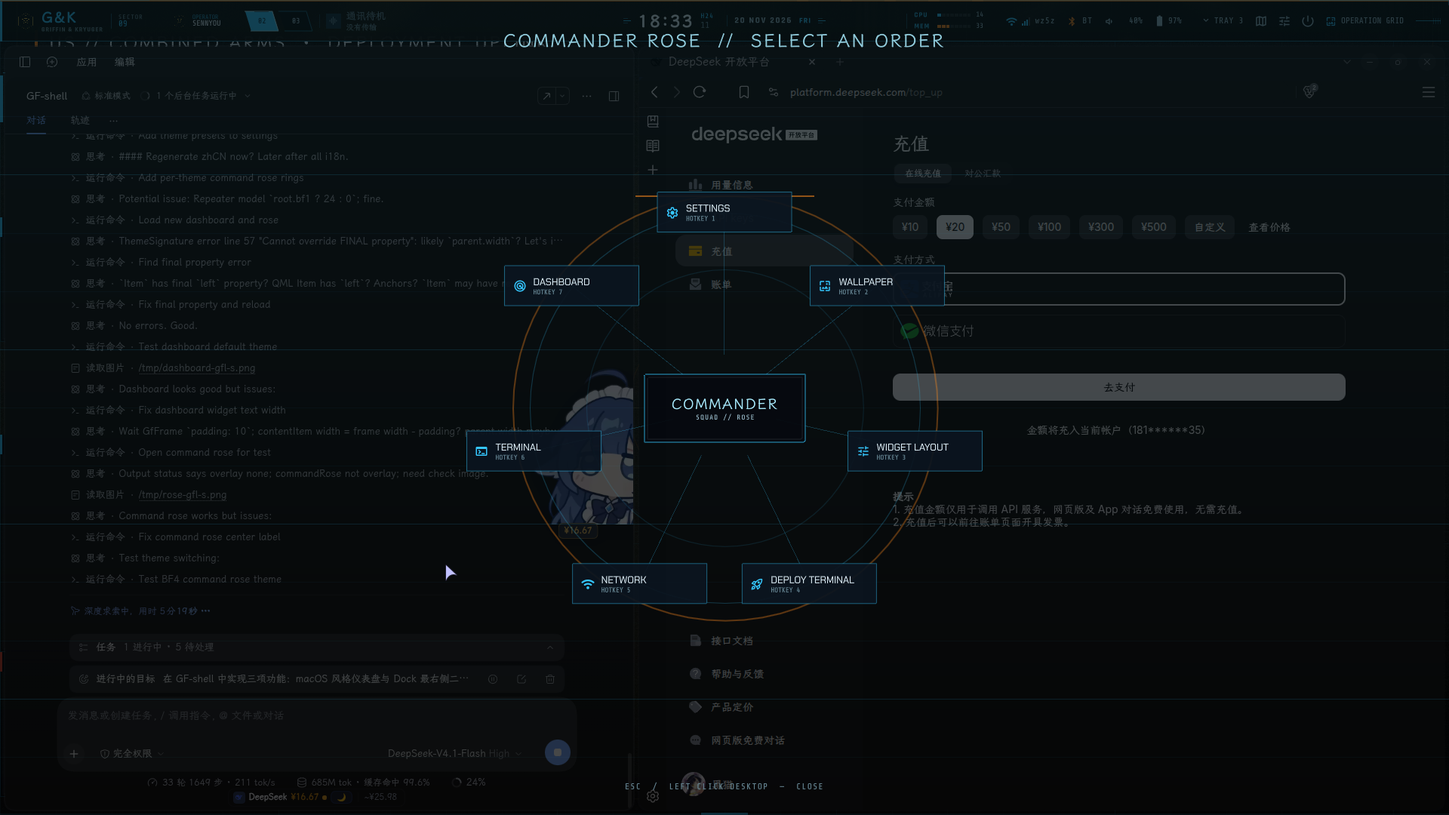
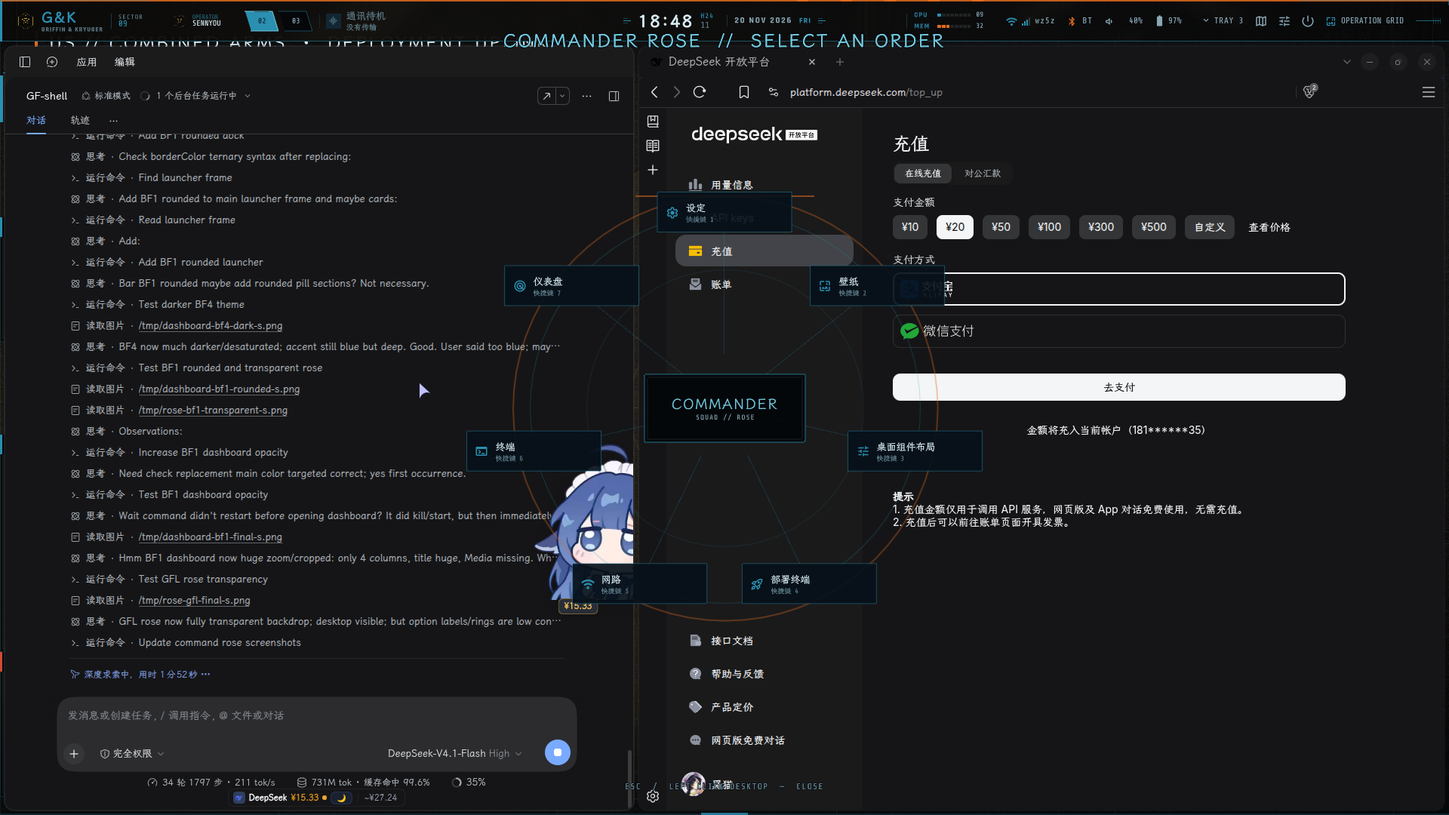
Deepen BF4 palette, round BF1 surfaces and remove rose dimming

diff --git a/modules/command/CommandRose.qml b/modules/command/CommandRose.qml
@@ -84,94 +84,6 @@ PanelWindow {
         onClicked: ShellState.closeCommandRose()
     }
 
-    // 背景：每个主题不一样
-    Item {
-        anchors.fill: parent
-        visible: root.arknights
-        Rectangle {
-            anchors.fill: parent
-            gradient: Gradient {
-                GradientStop { position: 0.0; color: Theme.alpha("#000000", 0.55) }
-                GradientStop { position: 1.0; color: Theme.alpha(Theme.bg0, 0.82) }
-            }
-        }
-        Repeater {
-            model: 18
-            Rectangle {
-                required property int index
-                x: root.width * index / 18
-                y: 0; width: 1; height: root.height
-                color: Theme.alpha(Theme.text, 0.045)
-            }
-        }
-        Repeater {
-            model: 10
-            Rectangle {
-                required property int index
-                x: 0; y: root.height * index / 10
-                width: root.width; height: 1
-                color: Theme.alpha(Theme.text, 0.035)
-            }
-        }
-    }
-
-    Item {
-        anchors.fill: parent
-        visible: root.bf4
-        Rectangle {
-            anchors.fill: parent
-            color: Theme.alpha("#02080d", 0.72)
-        }
-        Repeater {
-            model: 14
-            Rectangle {
-                required property int index
-                x: 0; y: root.height * index / 14
-                width: root.width; height: 1
-                color: Theme.alpha(Theme.accent, index % 3 === 0 ? 0.13 : 0.035)
-            }
-        }
-        Rectangle {
-            anchors.fill: parent
-            gradient: Gradient {
-                GradientStop { position: 0.0; color: Theme.alpha(Theme.accent, 0.06) }
-                GradientStop { position: 1.0; color: "transparent" }
-            }
-        }
-    }
-
-    Item {
-        anchors.fill: parent
-        visible: root.bf1
-        Rectangle {
-            anchors.fill: parent
-            gradient: Gradient {
-                GradientStop { position: 0.0; color: Theme.alpha("#2a2115", 0.55) }
-                GradientStop { position: 0.6; color: Theme.alpha("#120d08", 0.75) }
-                GradientStop { position: 1.0; color: Theme.alpha("#1b130b", 0.9) }
-            }
-        }
-        Repeater {
-            model: 7
-            Rectangle {
-                required property int index
-                x: root.width * (0.1 + index * 0.13)
-                y: root.height * (0.22 + (index % 3) * 0.2)
-                width: root.width * (0.1 + (index % 2) * 0.06)
-                height: width
-                radius: width / 2
-                color: Theme.alpha("#d8c39a", 0.022)
-            }
-        }
-    }
-
-    // 通用暗底（GFL）
-    Rectangle {
-        anchors.fill: parent
-        visible: !root.arknights && !root.bf4 && !root.bf1
-        color: Theme.alpha(Theme.bg0, 0.76)
-    }
-
     // 环 / 辐条 / 中心
     Item {
         x: root.cx; y: root.cy
@@ -280,11 +192,20 @@ PanelWindow {
             anchors.centerIn: parent
             width: Theme.px(194)
             height: Theme.px(82)
-            fill: Theme.alpha(Theme.bg0, 0.92)
-            borderColor: Theme.alpha(Theme.accent, 0.8)
-            chamfer: root.arknights || root.bf4 ? Theme.px(2) : Theme.px(6)
-            innerLine: true
+            fill: root.bf1 ? "transparent" : Theme.alpha(Theme.bg0, 0.92)
+            borderColor: root.bf1 ? "transparent" : Theme.alpha(Theme.accent, 0.8)
+            chamfer: root.bf1 ? 0 : (root.arknights || root.bf4 ? Theme.px(2) : Theme.px(6))
+            innerLine: !root.bf1
             padding: 0
+
+            Rectangle {
+                visible: root.bf1
+                anchors.fill: parent
+                radius: Theme.px(12)
+                color: Theme.alpha(Theme.bg0, 0.95)
+                border.width: 1
+                border.color: Theme.alpha(Theme.accent, 0.7)
+            }
 
             Column {
                 anchors.centerIn: parent
@@ -330,11 +251,22 @@ PanelWindow {
 
             GfFrame {
                 anchors.fill: parent
-                fill: optionMouse.containsMouse ? Theme.alpha(Theme.accent, 0.2) : Theme.alpha(Theme.bg1, 0.92)
-                borderColor: optionMouse.containsMouse ? Theme.accentHi : Theme.alpha(Theme.accent, 0.45)
-                chamfer: root.arknights || root.bf4 ? Theme.px(1) : Theme.px(4)
+                fill: root.bf1 ? "transparent"
+                    : (optionMouse.containsMouse ? Theme.alpha(Theme.accent, 0.2) : Theme.alpha(Theme.bg1, 0.92))
+                borderColor: root.bf1 ? "transparent"
+                    : (optionMouse.containsMouse ? Theme.accentHi : Theme.alpha(Theme.accent, 0.45))
+                chamfer: root.bf1 ? 0 : (root.arknights || root.bf4 ? Theme.px(1) : Theme.px(4))
                 innerLine: false
                 padding: 0
+            }
+
+            Rectangle {
+                visible: root.bf1
+                anchors.fill: parent
+                radius: Theme.px(8)
+                color: optionMouse.containsMouse ? Theme.alpha(Theme.accent, 0.2) : Theme.alpha(Theme.bg1, 0.94)
+                border.width: 1
+                border.color: optionMouse.containsMouse ? Theme.accentHi : Theme.alpha(Theme.accent, 0.5)
             }
 
             Row {
@@ -392,7 +324,9 @@ PanelWindow {
         font.family: Theme.fontDisplay
         font.pixelSize: Theme.fs(18)
         font.letterSpacing: 2.4
-        color: Theme.alpha(Theme.accentHi, 0.85)
+        color: Theme.alpha(Theme.accentHi, 0.95)
+        style: Text.Outline
+        styleColor: Theme.alpha(Theme.bg0, 0.9)
     }
 
     Text {
@@ -404,5 +338,7 @@ PanelWindow {
         font.pixelSize: Theme.fs(8)
         font.letterSpacing: 1.4
         color: Theme.textFaint
+        style: Text.Outline
+        styleColor: Theme.alpha(Theme.bg0, 0.85)
     }
 }

diff --git a/modules/dashboard/Dashboard.qml b/modules/dashboard/Dashboard.qml
@@ -78,15 +78,27 @@ PanelWindow {
             anchors.fill: parent
             anchors.margins: Theme.px(28)
             z: 2
-            fill: Theme.alpha(Theme.bg0, 0.88)
-            borderColor: root.arknights ? Theme.alpha(Theme.text, 0.7)
-                : (root.bf4 ? Theme.alpha(Theme.accent2, 0.75)
-                : (root.bf1 ? Theme.alpha(Theme.accent, 0.75) : Theme.alpha(Theme.accent, 0.55)))
-            chamfer: root.arknights || root.bf4 ? Theme.px(2) : Theme.px(6)
-            innerLine: true
+            fill: root.bf1 ? "transparent" : Theme.alpha(Theme.bg0, 0.88)
+            borderColor: root.bf1 ? "transparent"
+                : (root.arknights ? Theme.alpha(Theme.text, 0.7)
+                : (root.bf4 ? Theme.alpha(Theme.accent2, 0.75) : Theme.alpha(Theme.accent, 0.55)))
+            chamfer: root.bf1 ? 0 : (root.arknights || root.bf4 ? Theme.px(2) : Theme.px(6))
+            innerLine: !root.bf1
             padding: 0
 
+            // BF1：旧纸圆角面板
+            Rectangle {
+                visible: root.bf1
+                anchors.fill: parent
+                anchors.margins: Theme.px(1)
+                radius: Theme.px(16)
+                color: Theme.alpha(Theme.bg0, 0.97)
+                border.width: 2
+                border.color: Theme.alpha(Theme.accent, 0.5)
+            }
+
             GlassBackdrop {
+                visible: !root.bf1
                 anchors.fill: parent
                 anchors.margins: 2
                 source: Wallpapers.source
@@ -95,9 +107,10 @@ PanelWindow {
                 strength: 0.35
             }
             Rectangle {
+                visible: !root.bf1
                 anchors.fill: parent
                 anchors.margins: 2
-                color: Theme.alpha(Theme.bg0, root.bf1 ? 0.72 : 0.6)
+                color: Theme.alpha(Theme.bg0, 0.6)
             }
 
             Column {
@@ -194,11 +207,20 @@ PanelWindow {
                             required property var modelData
                             width: (parent.width - Theme.px(24)) / 4
                             height: parent.height
-                            fill: Theme.alpha(Theme.panel, 0.55)
-                            borderColor: Theme.alpha(Theme.accent, 0.28)
-                            chamfer: root.arknights || root.bf4 ? 2 : Theme.px(4)
+                            fill: root.bf1 ? "transparent" : Theme.alpha(Theme.panel, 0.55)
+                            borderColor: root.bf1 ? "transparent" : Theme.alpha(Theme.accent, 0.28)
+                            chamfer: root.bf1 ? 0 : (root.arknights || root.bf4 ? 2 : Theme.px(4))
                             innerLine: false
                             padding: Theme.px(10)
+
+                            Rectangle {
+                                visible: root.bf1
+                                anchors.fill: parent
+                                radius: Theme.px(10)
+                                color: Theme.alpha(Theme.panel, 0.94)
+                                border.width: 1
+                                border.color: Theme.alpha(Theme.accent, 0.32)
+                            }
 
                             Column {
                                 width: parent.width
@@ -302,7 +324,9 @@ PanelWindow {
 
                                 Rectangle {
                                     anchors.fill: parent
-                                    color: cellMouse.containsMouse ? Theme.alpha(Theme.accent, 0.16) : Theme.alpha(Theme.panel, 0.35)
+                                    radius: root.bf1 ? Theme.px(9) : 0
+                                    color: cellMouse.containsMouse ? Theme.alpha(Theme.accent, 0.16)
+                                        : Theme.alpha(Theme.panel, root.bf1 ? 0.9 : 0.35)
                                     border.width: 1
                                     border.color: cellMouse.containsMouse ? Theme.accent : Theme.alpha(Theme.accent, 0.18)
                                 }

diff --git a/modules/dock/Dock.qml b/modules/dock/Dock.qml
@@ -434,9 +434,9 @@ PanelWindow {
         fill: Theme.alpha(Theme.bg0, 0.0)
         borderColor: Theme.arknights ? Theme.alpha(Theme.text, 0.72)
             : (Theme.bf4 ? Theme.alpha(Theme.accent2, 0.8)
-            : (Theme.bf1 ? Theme.alpha(Theme.accent, 0.72)
+            : (Theme.bf1 ? "transparent"
             : Theme.alpha(Theme.accent, 0.55)))
-        chamfer: Theme.arknights || Theme.bf4 ? Theme.px(2) : (Theme.bf1 ? Theme.px(4) : Theme.px(8))
+        chamfer: Theme.arknights || Theme.bf4 ? Theme.px(2) : (Theme.bf1 ? 0 : Theme.px(8))
         innerLine: true
         padding: 0
         cutBottomLeft: true
@@ -482,6 +482,16 @@ PanelWindow {
             anchors.fill: parent
             anchors.margins: 2
             color: Theme.alpha(Theme.bg0, Settings.get("dock.opacity", 0.94))
+        }
+
+        Rectangle {
+            visible: Theme.bf1
+            anchors.fill: parent
+            anchors.margins: Theme.px(1)
+            radius: Theme.px(12)
+            color: "transparent"
+            border.width: 2
+            border.color: Theme.alpha(Theme.accent, 0.6)
         }
 
         Rectangle {

diff --git a/services/Settings.qml b/services/Settings.qml
@@ -224,13 +224,13 @@ QtObject {
         },
         bf4: {
             name: "BATTLEFIELD 4",
-            accent: "#35c7ff", accentHi: "#a9ecff", accentDim: "#1c637e",
-            accent2: "#ff8a1e",
-            bg0: "#05090e", bg1: "#0b151f", bg: "#071019",
-            panel: "#0b1824", panelAlt: "#102332", panelHi: "#183548",
-            line: "#21445b", lineBright: "#3b7e9f",
-            text: "#e7f7ff", textDim: "#9bbdcc", textFaint: "#688896", textGhost: "#3c5662",
-            ink: "#031018",
+            accent: "#2a8fb0", accentHi: "#73c9df", accentDim: "#145064",
+            accent2: "#e06b1f",
+            bg0: "#020509", bg1: "#071019", bg: "#04090e",
+            panel: "#07131c", panelAlt: "#0b1e2b", panelHi: "#122c3d",
+            line: "#173446", lineBright: "#2b6178",
+            text: "#d9edf5", textDim: "#89a8b5", textFaint: "#5f7f8c", textGhost: "#354d58",
+            ink: "#020c12",
             scanlines: true, brackets: false
         },
         bf1: {

diff --git a/shell.qml b/shell.qml
@@ -209,6 +209,8 @@ ShellRoot {
 
 
 
+
+
         function widgets(): void {
             ShellState.toggleWidgetsEditing();
         }

diff --git a/README.en.md b/README.en.md
@@ -62,7 +62,7 @@ Documentation: [Install](docs/INSTALL.en.md) · [Configuration](docs/CONFIG.en.m
 | **Dashboard** | A macOS-Launchpad-style full-screen overview: a themed title, four status cards (system / power / link / media), unit search, an app grid, and SETTINGS / CONTROL / MAP / LAUNCHER shortcuts. GFL, Arknights, BF4 and BF1 each get a different title, background and card outline. |
 | **Tactical control (Control Center)** | Link status (Wi-Fi/Bluetooth), segmented volume/brightness sliders, module switches, CPU/MEM/BAT segmented gauges, notification history and media controls. |
 | **Operation map (Overview)** | One "sector" card per workspace listing its units; click a sector to switch workspaces, click a unit to focus its window; drag a unit onto another sector, or right-click a unit and click the target sector, to move that window. |
-| **Command rose** | A **desktop right-click** opens a Battlefield-style Q command rose at the pointer: Settings, Wallpaper, Widget Layout, Deploy Terminal, Network, Terminal and Dashboard. Click an option or press 1–7; left-click the desktop / Esc closes. GFL, Arknights, BF4 and BF1 each have their own centre badge, rings and backdrop. |
+| **Command rose** | A **desktop right-click** opens a Battlefield-style Q command rose at the pointer: Settings, Wallpaper, Widget Layout, Deploy Terminal, Network, Terminal and Dashboard. Click an option or press 1–7; left-click the desktop / Esc closes. GFL, Arknights, BF4 and BF1 each have their own centre badge and rings; there is **no full-screen dim layer**, so the desktop keeps its brightness and visibility. |
 | **System halt (Power)** | Lock / suspend / restart / shut down / log out. Dangerous actions need a second confirmation (ENTER twice); ESC cancels. |
 | **HUD widgets** | Large clock, system vitals, transmission (with lyrics), weather, cava audio spectrum, operator card and current mission; each can be toggled. A **desktop layout editor** overlays a snap grid; drag widgets, resize from the bottom-right corner, and toggle each one ON/OFF. |
 | **Echelon (Dock)** | Pinned and running units (up to 12), with running apps appended automatically; pin more by typing an app name in Settings → Dock. Right-click a unit to pin/unpin it, open a new window or close it. `dock.position` supports top / bottom / left / right; left/right render a **vertical side dock**, while `dock.align` handles vertical top/centre/bottom or horizontal left/centre/right. It hides while windows are open and expands when the pointer reaches the bottom hot zone, pushing windows away via an exclusive zone. Icon size / opacity / grayscale / blur are adjustable, and the hidden **trigger area is configurable (4–48 px)**. With **Avoid windows** off the dock stays fully visible; when hidden, only an invisible hot zone and a thin line remain, and the panel appears only on expansion. When the dock shares an edge with the bar, the hot zone/indicator sit on the bar and the dock body attaches to its inner edge instead of floating. The rightmost deploy button expands into a **Deploy Terminal / Dashboard** chooser; Settings → Dock → Deploy Button sets its default. |

diff --git a/README.md b/README.md
@@ -60,7 +60,7 @@ GF-shell 是一個從零撰寫的 Quickshell (Qt Quick) 桌面外殼，視覺語
 | **儀表盤 (Dashboard)** | macOS Launchpad 式全屏總覽：頂部主題化標題、系統/電力/鏈路/媒體四張狀態卡、單位搜尋、應用網格與 SETTINGS/CONTROL/MAP/LAUNCHER 快捷鍵；GFL、Arknights、BF4、BF1 各自有不同的標題、背景與卡片輪廓。 |
 | **戰術控制 (Control Center)** | 鏈路（Wi-Fi/藍牙）、音量/亮度分段滑條、模組開關、CPU/MEM/BAT 分段儀表、通訊紀錄、隨媒體控制。 |
 | **作戰地圖 (Overview)** | 每個工作區一張「扇區」卡，列出其中單位；點扇區切換工作區、點單位聚焦視窗；把單位拖到另一扇區，或右鍵單位後點擊目標扇區，即可移動視窗。 |
-| **命令輪盤 (Command Rose)** | **桌面右鍵**在滑鼠位置展開《戰地》Q 命令式輪盤：設定、壁紙、桌面組件佈局、部署終端、網路、終端、儀表盤。七個選項可點擊或按 1–7；左鍵桌面/Esc 關閉。GFL、Arknights、BF4、BF1 各有不同的中心徽章、環線與背景。 |
+| **命令輪盤 (Command Rose)** | **桌面右鍵**在滑鼠位置展開《戰地》Q 命令式輪盤：設定、壁紙、桌面組件佈局、部署終端、網路、終端、儀表盤。七個選項可點擊或按 1–7；左鍵桌面/Esc 關閉。GFL、Arknights、BF4、BF1 各有不同的中心徽章與環線；**沒有全屏暗幕**，展開時桌面仍保持原本亮度與可視度。 |
 | **系統停機 (Power)** | 鎖定/休眠/重啟/關機/登出；危險操作需二次確認（ENTER 兩次），ESC 取消。 |
 | **HUD 小工具** | 大時鐘、系統生命徵象、通訊（含歌詞）、天氣、cava 音樂頻譜、操作員卡、當前任務；逐項開關。另有 **桌面佈局編輯模式**：疊加網格、拖動吸附、右下角自由縮放、每個組件可單獨 ON/OFF。 |
 | **梯隊 (Dock)** | 固定與執行中的單位依序顯示（上限 12）；右鍵單位可固定/取消固定、開新視窗或關閉；設定 → Dock 可輸入應用名稱直接固定。`dock.position` 可選上/下/左/右；左右時 Dock **垂直貼邊**，`dock.align` 控制垂直上/中/下或水平左/中/右；有視窗時自動收起；滑到底部熱區才展開，並用 exclusive zone 把視窗推開。圖示尺寸/透明度/灰度/模糊可調；收起時的 **觸發面積 4–48px** 也可調。關閉「避讓視窗」後 Dock 始終完整顯示；收起時只保留不可見熱區與細線，展開才顯示面板。與狀態列同邊時，熱區與指示線落在狀態列上，Dock 本體貼住狀態列內側，不再浮空。最右側部署按鈕會展開 **部署終端 / 儀表盤** 二選一，也可在「設定 → Dock → 部署按鈕」指定預設。 |

diff --git a/README.zh-CN.md b/README.zh-CN.md
@@ -64,7 +64,7 @@ IPC](#快捷键与-ipc)
 | **仪表盘 (Dashboard)** | macOS Launchpad 式全屏总览：顶部主题化标题、系统/电力/链路/媒体四张状态卡、单位搜索、应用网格与 SETTINGS/CONTROL/MAP/LAUNCHER 快捷键；GFL、Arknights、BF4、BF1 各有不同标题、背景与卡片轮廓。 |
 | **战术控制 (Control Center)** | 链路（Wi-Fi/蓝牙）、音量/亮度分段滑条、模块开关、CPU/MEM/BAT 分段仪表、通讯记录、随媒体控制。 |
 | **作战地图 (Overview)** | 每个工作区一张“扇区”卡，列出其中的单位；点扇区切换工作区、点单位聚焦窗口；把单位拖到另一个扇区，或右键单位后点击目标扇区，即可移动窗口。 |
-| **命令轮盘 (Command Rose)** | **桌面右键**在鼠标位置展开《战地》Q 命令式轮盘：设置、壁纸、桌面组件布局、部署终端、网络、终端、仪表盘。七个选项可点击或按 1–7；左键桌面/Esc 关闭。GFL、Arknights、BF4、BF1 各有不同的中心徽章、环线与背景。 |
+| **命令轮盘 (Command Rose)** | **桌面右键**在鼠标位置展开《战地》Q 命令式轮盘：设置、壁纸、桌面组件布局、部署终端、网络、终端、仪表盘。七个选项可点击或按 1–7；左键桌面/Esc 关闭。GFL、Arknights、BF4、BF1 各有不同的中心徽章与环线；**没有全屏暗幕**，展开时桌面保持原本亮度与可视度。 |
 | **系统停机 (Power)** | 锁定/休眠/重启/关机/登出；危险操作需二次确认（ENTER 两次），ESC 取消。 |
 | **HUD 小工具** | 大时钟、系统生命体征、通讯（含歌词）、天气、cava 音频频谱、操作员卡、当前任务；逐项开关。另有 **桌面布局编辑模式**：叠加网格、拖动吸附、右下角自由缩放、每个组件可单独 ON/OFF。 |
 | **梯队 (Dock)** | 固定与运行中的单位依序显示（上限 12）；右键单位可固定/取消固定、开新窗口或关闭；设置 → Dock 可输入应用名称直接固定。`dock.position` 可选上/下/左/右；左右时 Dock **垂直贴边**，`dock.align` 控制垂直上/中/下或水平左/中/右；有窗口时自动收起；滑到底部热区才展开，并用 exclusive zone 推开窗口。图标尺寸/透明度/灰度/模糊可调；收起时的 **触发面积 4–48px** 也可调。关闭“避让窗口”后 Dock 始终完整显示；收起时只保留不可见热区和细线，展开才显示面板。与状态栏同边时，热区和指示线落在状态栏上，Dock 本体贴住状态栏内侧，不再浮空。最右侧部署按钮会展开 **部署终端 / 仪表盘** 二选一，也可在「设置 → Dock → 部署按钮」指定默认。 |

diff --git a/docs/CONFIG.ja.md b/docs/CONFIG.ja.md
@@ -162,7 +162,7 @@
 | `neural` | ニューラルクラウド：深い青 + アイスシアン | `#7eb2d6` |
 | `arctic` | アークティック：冷たいグレー + 淡い金 | `#cbb98a` |
 | `arknights` | ロドスアイランド：黒 + 産業シアン + 白 | `#3fd4e6` |
-| `bf4` | Battlefield 4：深い青 + スキャンライン + 橙 | `#35c7ff` |
+| `bf4` | Battlefield 4：深い青 + スキャンライン + 橙 | `#2a8fb0` |
 | `bf1` | Battlefield 1：古紙 + 真鍮 + 暗赤 | `#c9a05a` |
 | `light` | デイライト：紙白＋深い金（ライト） | `#b07d18` |
 
@@ -279,7 +279,7 @@ UI は常に `Theme.alpha(color, a)`、`Theme.mix()`、`Theme.shade()` で色を
 
 ### デスクトップ右クリックのコマンドローズ
 
-デスクトップの空白を右クリックすると、ポインタ位置に 7 項目のコマンドローズ（設定、壁紙、ウィジェット配置、デプロイ端末、ネットワーク、ターミナル、ダッシュボード）が開きます。1–7 キーで選択、左クリックまたは Esc で閉じます。4 つのゲームテーマはそれぞれ中心・リング・背景が異なります。`ThemeSignature`、BarThemeAccent、CommandRose、Dashboard の追加スタイルは対応するプリセットでのみ表示されます。
+デスクトップの空白を右クリックすると、ポインタ位置に 7 項目のコマンドローズ（設定、壁紙、ウィジェット配置、デプロイ端末、ネットワーク、ターミナル、ダッシュボード）が開きます。1–7 キーで選択、左クリックまたは Esc で閉じます。4 つのゲームテーマはそれぞれ中心・リング・装飾が異なり、**全画面の暗幕はありません**。`ThemeSignature`、BarThemeAccent、CommandRose、Dashboard の追加スタイルは対応するプリセットでのみ表示されます。
 
 ## 壁紙
 

diff --git a/docs/CONFIG.md b/docs/CONFIG.md
@@ -162,7 +162,7 @@
 | `neural` | 神經網絡：深藍 + 冰青 | `#7eb2d6` |
 | `arctic` | 極地：冷灰 + 淡金 | `#cbb98a` |
 | `arknights` | 羅德島：近黑 + 工業青 + 白 | `#3fd4e6` |
-| `bf4` | 戰地 4：深藍 + 掃描線 + 橙 | `#35c7ff` |
+| `bf4` | 戰地 4：深藍 + 掃描線 + 橙 | `#2a8fb0` |
 | `bf1` | 戰地 1：舊紙 + 黃銅 + 暗紅 | `#c9a05a` |
 | `light` | 日照：紙白底 + 深金（亮色） | `#b07d18` |
 
@@ -261,7 +261,7 @@ UI 一律透過 `Theme.alpha(color, a)`、`Theme.mix()`、`Theme.shade()` 取色
 
 ### 桌面右鍵命令輪盤
 
-在桌面空白處按右鍵，會在游標位置展開七項命令輪盤（設定、壁紙、桌面組件佈局、部署終端、網路、終端、儀表盤）。數字鍵 1–7 可直接選取；左鍵桌面或 Esc 關閉。四個遊戲主題各自有不同的中心、環線與背景；`ThemeSignature`、BarThemeAccent、CommandRose、Dashboard 的額外樣式都只在對應 preset 下可見。
+在桌面空白處按右鍵，會在游標位置展開七項命令輪盤（設定、壁紙、桌面組件佈局、部署終端、網路、終端、儀表盤）。數字鍵 1–7 可直接選取；左鍵桌面或 Esc 關閉。四個遊戲主題各自有不同的中心、環線與裝飾，**沒有全屏暗幕**；`ThemeSignature`、BarThemeAccent、CommandRose、Dashboard 的額外樣式都只在對應 preset 下可見。
 
 
 ### 側邊欄組件

diff --git a/docs/CONFIG.zh-CN.md b/docs/CONFIG.zh-CN.md
@@ -162,7 +162,7 @@
 | `neural` | 神经网络：深蓝 + 冰青 | `#7eb2d6` |
 | `arctic` | 极地：冷灰 + 淡金 | `#cbb98a` |
 | `arknights` | 罗德岛：近黑 + 工业青 + 白 | `#3fd4e6` |
-| `bf4` | 战地 4：深蓝 + 扫描线 + 橙 | `#35c7ff` |
+| `bf4` | 战地 4：深蓝 + 扫描线 + 橙 | `#2a8fb0` |
 | `bf1` | 战地 1：旧纸 + 黄铜 + 暗红 | `#c9a05a` |
 | `light` | 日照：纸白底 + 深金（亮色） | `#b07d18` |
 
@@ -300,7 +300,7 @@ OFF / LEFT / CENTER / RIGHT，OFF 即从状态栏移除。
 
 ### 桌面右键命令轮盘
 
-在桌面空白处按右键，会在光标位置展开七项命令轮盘（设置、壁纸、桌面组件布局、部署终端、网络、终端、仪表盘）。数字键 1–7 可直接选择；左键桌面或 Esc 关闭。四个游戏主题各有不同的中心、环线与背景；`ThemeSignature`、BarThemeAccent、CommandRose、Dashboard 的额外样式只在对应预设下可见。
+在桌面空白处按右键，会在光标位置展开七项命令轮盘（设置、壁纸、桌面组件布局、部署终端、网络、终端、仪表盘）。数字键 1–7 可直接选择；左键桌面或 Esc 关闭。四个游戏主题各有不同的中心、环线与装饰，**没有全屏暗幕**；`ThemeSignature`、BarThemeAccent、CommandRose、Dashboard 的额外样式只在对应预设下可见。
 
 ## 壁纸
 
